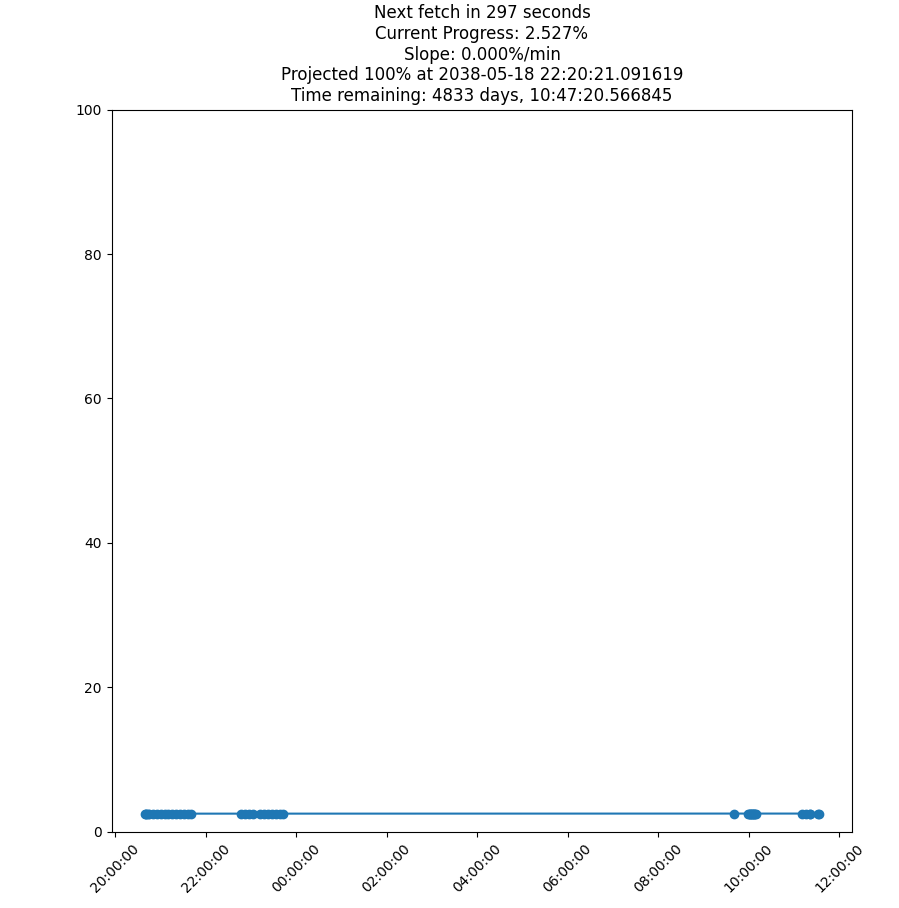
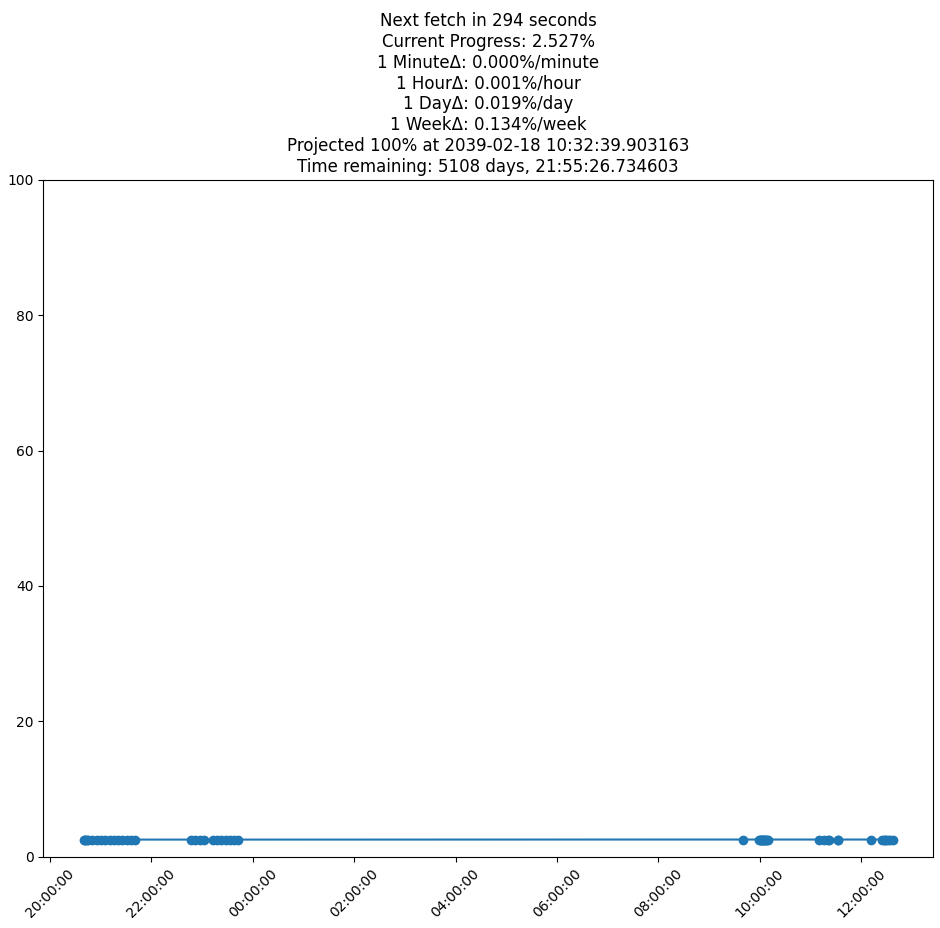
added deltas

diff --git a/StrikePlotter.py b/StrikePlotter.py
@@ -89,7 +89,7 @@ def calculate_regression(timestamps, values):
         return None, None, None
     target_x = (100 - intercept) / slope
     target_time = datetime.datetime.fromtimestamp(target_x)
-    delta_slope = slope * 60  # Convert to % per minute
+    delta_slope = slope * 60
     return target_time, (target_time - datetime.datetime.now()), delta_slope
 
 def live_plot(filename):
@@ -108,15 +108,46 @@ def live_plot(filename):
         ax.xaxis.set_major_formatter(mdates.DateFormatter('%H:%M:%S'))
         fetch_countdown = max(0, int(next_fetch_time - time.time()))
         target_time, countdown, delta_slope = calculate_regression(timestamps, values)
+
+        time_intervals = {
+            "1 Minute": 1,
+            "1 Hour": 60,
+            "1 Day": 60 * 24,
+            "1 Week": 60 * 24 * 7
+        }
+        
+        slopes = {}
+        slope_texts = []
+        for label, interval in time_intervals.items():
+            delta_slope = calculate_regression(timestamps, values)[2] * interval
+            slopes[label] = delta_slope
+            if delta_slope:
+                if label == "1 Minute":
+                    unit = "minute"
+                elif label == "1 Hour":
+                    unit = "hour"
+                elif label == "1 Day":
+                    unit = "day"
+                elif label == "1 Week":
+                    unit = "week"
+                
+                slope_texts.append(f"{label}Δ: {delta_slope:.3f}%/{unit}")
+            else:
+                slope_texts.append(f"{label}Δ: N/A")
+
         if values:
             current_progress = values[-1]
         else:
             current_progress = "N/A"
-        title = f"Next fetch in {fetch_countdown} seconds\nCurrent Progress: {current_progress}%\nSlope: {delta_slope:.3f}%/min" if delta_slope else "Slope: N/A"
+        
+        title = f"Next fetch in {fetch_countdown} seconds\nCurrent Progress: {current_progress}%\n"
+        title += "\n".join(slope_texts)
         if target_time:
             title += f"\nProjected 100% at {target_time}\nTime remaining: {countdown}"
+
         ax.set_title(title)
         plt.xticks(rotation=45)
+        plt.tight_layout()
         plt.pause(1)
 
 def start_logging():
